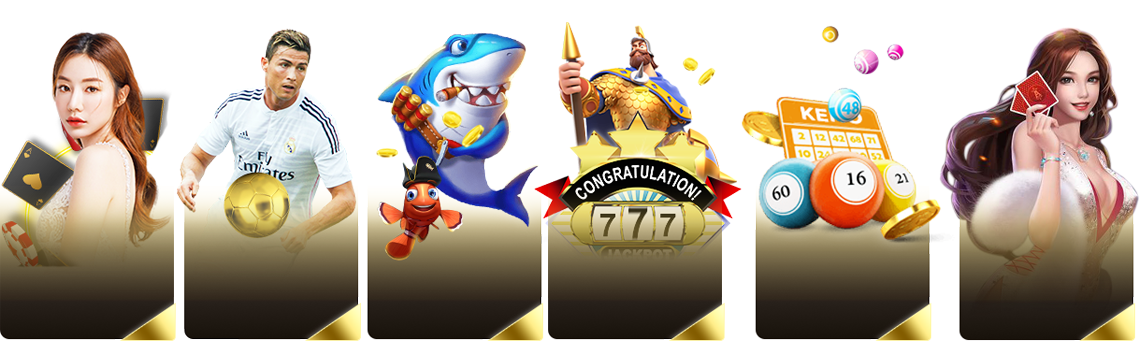
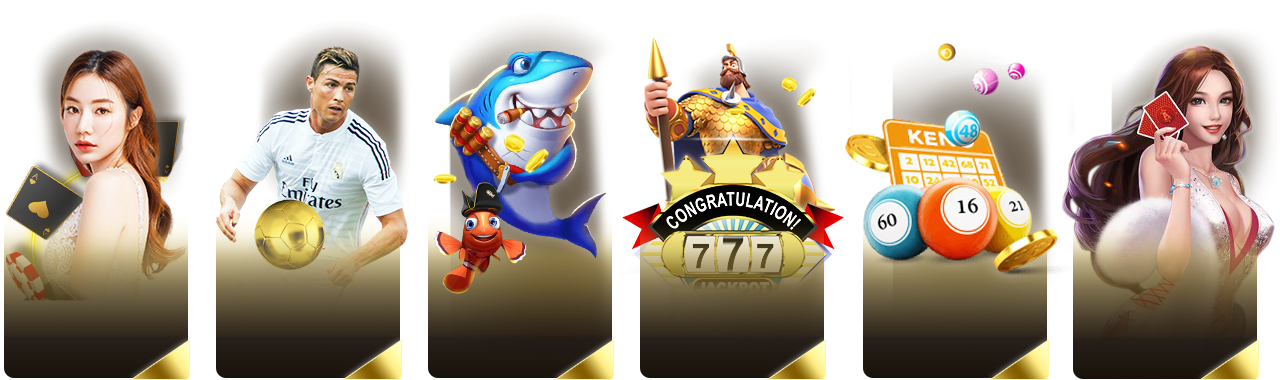
2

diff --git a/scss/main.scss b/scss/main.scss
@@ -579,9 +579,9 @@ html body {
             }
 
             .main-box {
-                width: 1278px;
-                height: 517px;
-                // margin-top: 20px;
+                width: 100%;
+                height: auto;
+                margin-top: 41px;
                 display: flex;
                 flex-wrap: nowrap;
                 justify-content: space-around;
@@ -589,10 +589,10 @@ html body {
                 margin-bottom: 55px;
 
                 .main-btn {
-                    width: 223px;
-                    height: 517px;
+                    width: 215px;
+                    height: 511px;
                     background: url(../img/main-btn.png) no-repeat;
-                    background-size: contain;
+                    background-size: 100%;
                     position: relative;
                     cursor: pointer;
 
@@ -604,43 +604,53 @@ html body {
 
 
                     .img {
-                        width: 190px;
-                        height: 341px;
-                        background: url(../img/main-btn-img.png) no-repeat;
-                        margin: 154px 0px 0 0px;
-                        padding-left: 16px;
-                        position: relative;
+                        width: 212px;
+                        height: 380px;
+                        background: url(../img/main-btn-img-3.png) no-repeat;
+                        position: absolute;
                     }
 
                     .img-1 {
-                        background-position-x: calc(100% + 1098px);
+                        background-position-x: calc(100% + 1090px);
+                        margin: 107px 0 0 -14px;
                     }
 
                     .img-2 {
-                        background-position-x: calc(100% + 873px);
+                        background-position-x: calc(100% + 864px);
+                        margin: 107px 0 0 0px;
                     }
 
                     .img-3 {
-                        background-position-x: calc(100% + 647px);
+                        background-position-x: calc(100% + 659px);
+                        margin: 108px 0 0 -7px;
                     }
 
                     .img-4 {
-                        background-position-x: calc(100% + 422px);
+                        width: 233px;
+                        height: 380px;
+                        background-position-x: calc(100% + 426px);
+                        margin: 107px 0 0 -7px;
                     }
 
                     .img-5 {
                         background-position-x: calc(100% + 195px);
+                        margin: 108px 0 0 -6px;
+                        width: 240px;
+                        height: 380px;
                     }
 
                     .img-6 {
-                        background-position-x: calc(100% - 30px);
+                        background-position-x: calc(100% + 7px);
+                        width: 198px;
+                        height: 380px;
+                        margin: 107px 0 0 13px;
                     }
 
                      div {
                         width: 130px;
                         height: 75px;
-                        position: relative;
-                        margin: -430px 0 0px 45px;
+                        position: absolute;
+                        margin: 63px 0 0px 38px;
 
                         h1 {
                             font-size: 28px;
@@ -663,8 +673,12 @@ html body {
                         color: #ffffbc;
                         font-size: 30px;
                         position: relative;
-                        margin-top: 289px;
+                        margin-top: 409px;
                         text-align: center;
+
+                        &:hover,&:active,&.active {
+                            color: #fffed2;
+                        }
                     }
 
                     &:hover,&:active,&.active {
@@ -777,6 +791,34 @@ html body {
                     color: #e5ce68;
                     letter-spacing: 1px;
                     padding-top: 17px;
+                }
+            }
+
+            .top {
+                width: 56px;
+                height: 120px;
+                bottom: 40px;
+                right: 10px;
+                position: absolute;
+                cursor: pointer;
+                transition: 0.5s;
+        
+                &:hover,&:active,&.active {
+                    bottom: 60px;
+                }
+        
+                .top-img {
+                    width: 56px;
+                    height: 101px;
+                    background: url(../img/top.png) no-repeat;
+                    background-size: contain;
+                }
+        
+                .top-text {
+                    width: 100%;
+                    text-align: center;
+                    color: #fffcad;
+                    padding-top: 5px;
                 }
             }
         }
@@ -964,33 +1006,6 @@ html body {
         }
     }
 
-    .top {
-        width: 56px;
-        height: 120px;
-        position: fixed;
-        bottom: 190px;
-        right: 10px;
-        cursor: pointer;
-        transition: 0.5s;
-
-        &:hover,&:active,&.active {
-            bottom: 220px;
-        }
-
-        .top-img {
-            width: 56px;
-            height: 101px;
-            background: url(../img/top.png) no-repeat;
-            background-size: contain;
-        }
-
-        .top-text {
-            width: 100%;
-            text-align: center;
-            color: #fffcad;
-            padding-top: 5px;
-        }
-    }
 
     .bg {
         width: 100%;

diff --git a/css/style.css b/css/style.css
@@ -573,8 +573,9 @@ html body main article .news .news-box marquee {
   float: right;
 }
 html body main article .main-box {
-  width: 1278px;
-  height: 517px;
+  width: 100%;
+  height: auto;
+  margin-top: 41px;
   display: -webkit-box;
   display: -ms-flexbox;
   display: flex;
@@ -586,10 +587,10 @@ html body main article .main-box {
   margin-bottom: 55px;
 }
 html body main article .main-box .main-btn {
-  width: 223px;
-  height: 517px;
+  width: 215px;
+  height: 511px;
   background: url(../img/main-btn.png) no-repeat;
-  background-size: contain;
+  background-size: 100%;
   position: relative;
   cursor: pointer;
 }
@@ -600,36 +601,46 @@ html body main article .main-box .main-btn:hover, html body main article .main-b
           filter: brightness(1.1);
 }
 html body main article .main-box .main-btn .img {
-  width: 190px;
-  height: 341px;
-  background: url(../img/main-btn-img.png) no-repeat;
-  margin: 154px 0px 0 0px;
-  padding-left: 16px;
-  position: relative;
+  width: 212px;
+  height: 380px;
+  background: url(../img/main-btn-img-3.png) no-repeat;
+  position: absolute;
 }
 html body main article .main-box .main-btn .img-1 {
-  background-position-x: calc(100% + 1098px);
+  background-position-x: calc(100% + 1090px);
+  margin: 107px 0 0 -14px;
 }
 html body main article .main-box .main-btn .img-2 {
-  background-position-x: calc(100% + 873px);
+  background-position-x: calc(100% + 864px);
+  margin: 107px 0 0 0px;
 }
 html body main article .main-box .main-btn .img-3 {
-  background-position-x: calc(100% + 647px);
+  background-position-x: calc(100% + 659px);
+  margin: 108px 0 0 -7px;
 }
 html body main article .main-box .main-btn .img-4 {
-  background-position-x: calc(100% + 422px);
+  width: 233px;
+  height: 380px;
+  background-position-x: calc(100% + 426px);
+  margin: 107px 0 0 -7px;
 }
 html body main article .main-box .main-btn .img-5 {
   background-position-x: calc(100% + 195px);
+  margin: 108px 0 0 -6px;
+  width: 240px;
+  height: 380px;
 }
 html body main article .main-box .main-btn .img-6 {
-  background-position-x: calc(100% - 30px);
+  background-position-x: calc(100% + 7px);
+  width: 198px;
+  height: 380px;
+  margin: 107px 0 0 13px;
 }
 html body main article .main-box .main-btn div {
   width: 130px;
   height: 75px;
-  position: relative;
-  margin: -430px 0 0px 45px;
+  position: absolute;
+  margin: 63px 0 0px 38px;
 }
 html body main article .main-box .main-btn div h1 {
   font-size: 28px;
@@ -651,8 +662,11 @@ html body main article .main-box .main-btn p {
   color: #ffffbc;
   font-size: 30px;
   position: relative;
-  margin-top: 289px;
+  margin-top: 409px;
   text-align: center;
+}
+html body main article .main-box .main-btn p:hover, html body main article .main-box .main-btn p:active, html body main article .main-box .main-btn p.active {
+  color: #fffed2;
 }
 html body main article .main-box .main-btn:hover h1, html body main article .main-box .main-btn:active h1, html body main article .main-box .main-btn.active h1 {
   color: #c80aea;
@@ -752,6 +766,31 @@ html body footer .footer-2 .footer-2box h2 {
   color: #e5ce68;
   letter-spacing: 1px;
   padding-top: 17px;
+}
+html body footer .footer-2 .top {
+  width: 56px;
+  height: 120px;
+  bottom: 40px;
+  right: 10px;
+  position: absolute;
+  cursor: pointer;
+  -webkit-transition: 0.5s;
+  transition: 0.5s;
+}
+html body footer .footer-2 .top:hover, html body footer .footer-2 .top:active, html body footer .footer-2 .top.active {
+  bottom: 60px;
+}
+html body footer .footer-2 .top .top-img {
+  width: 56px;
+  height: 101px;
+  background: url(../img/top.png) no-repeat;
+  background-size: contain;
+}
+html body footer .footer-2 .top .top-text {
+  width: 100%;
+  text-align: center;
+  color: #fffcad;
+  padding-top: 5px;
 }
 html body .gift {
   width: 167px;
@@ -922,31 +961,6 @@ html body .right-box .right-circle .cell-img {
   background-position-y: calc(100% + 0px);
   margin: auto;
   margin-top: 10px;
-}
-html body .top {
-  width: 56px;
-  height: 120px;
-  position: fixed;
-  bottom: 190px;
-  right: 10px;
-  cursor: pointer;
-  -webkit-transition: 0.5s;
-  transition: 0.5s;
-}
-html body .top:hover, html body .top:active, html body .top.active {
-  bottom: 220px;
-}
-html body .top .top-img {
-  width: 56px;
-  height: 101px;
-  background: url(../img/top.png) no-repeat;
-  background-size: contain;
-}
-html body .top .top-text {
-  width: 100%;
-  text-align: center;
-  color: #fffcad;
-  padding-top: 5px;
 }
 html body .bg {
   width: 100%;

diff --git a/index.html b/index.html
@@ -121,7 +121,7 @@
             <div class="swiper-pagination"></div>   
             </div>     
         </div>
-        <!-- <article>
+        <article>
             <div class="news">
                 <div class="news-icon"></div>
                 <div class="news-box">
@@ -176,7 +176,7 @@
                     <p>棋牌遊戲</p>
                 </div>
             </div>
-        </article> -->
+        </article>
     </main>
     <footer>
         <div class="footer-1">
@@ -196,6 +196,10 @@
             <div class="footer-2box">
                 <h1>我們在提供非凡客戶體驗及規劃成長途徑方面的不斷進步，關注我們的核心價值至關重要，誠信、</h1>
                 <h2>負責、合作及創新是這一切的核心。</h2>
+            </div>
+            <div class="top">
+                <div class="top-img"></div>
+                <div class="top-text">TOP</div>
             </div>
         </div>
     </footer>
@@ -233,10 +237,6 @@
         <div class="right-circle">
             <div class="cell-img"></div>
         </div>
-    </div>
-    <div class="top">
-        <div class="top-img"></div>
-        <div class="top-text">TOP</div>
     </div>
     <div class="bg"></div>
 
